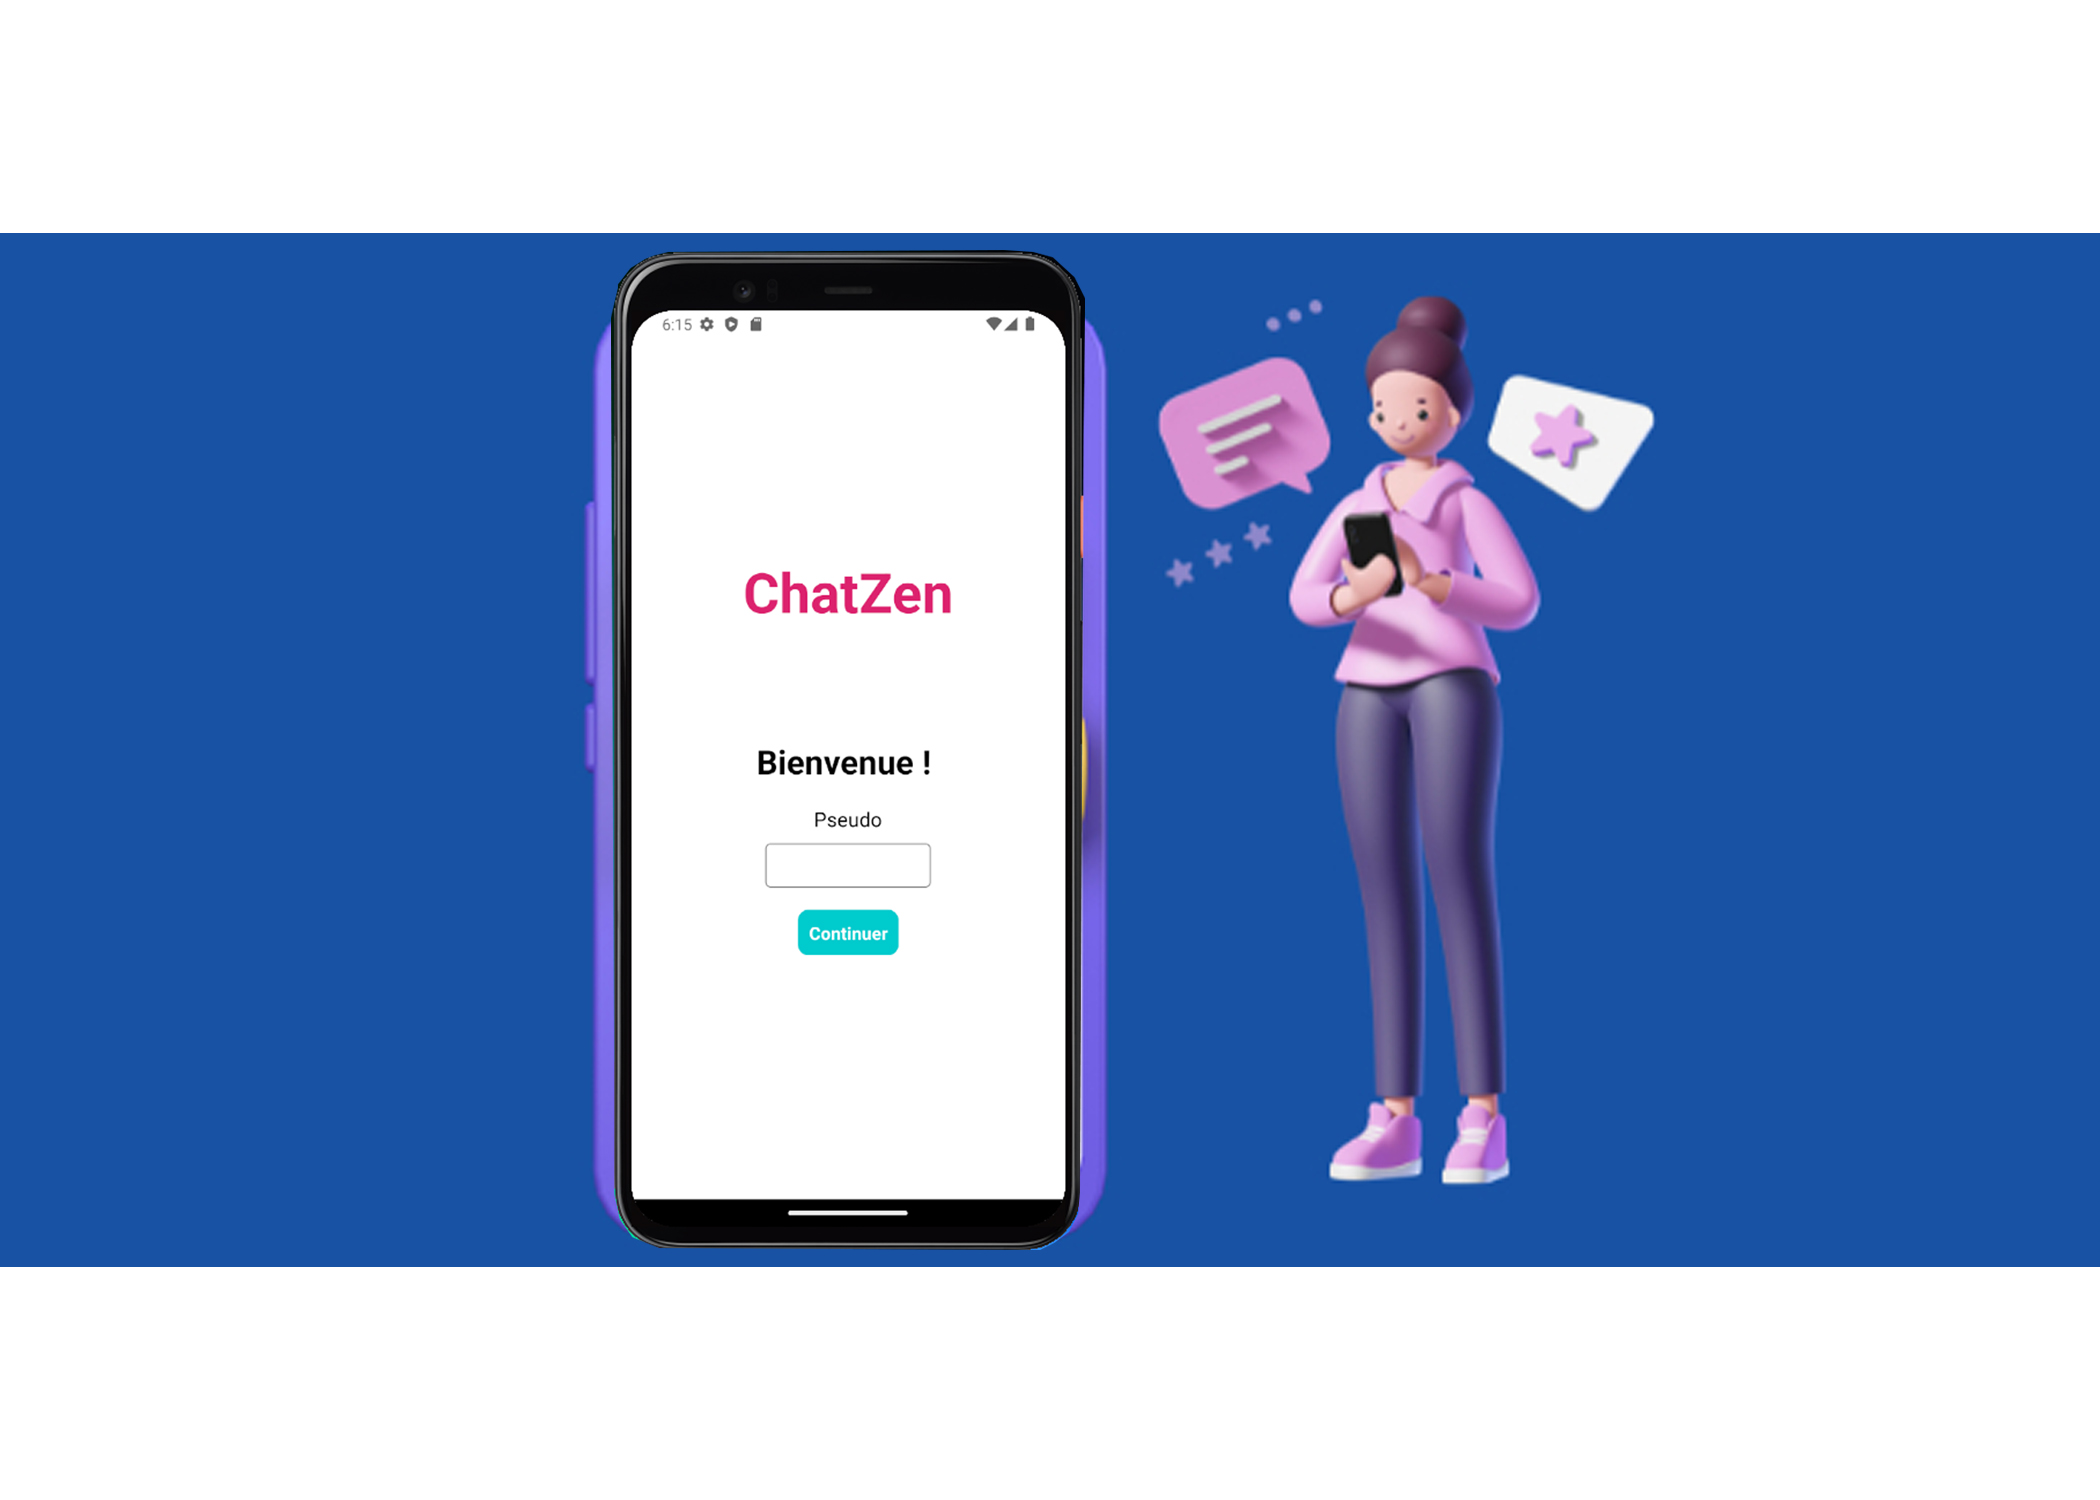
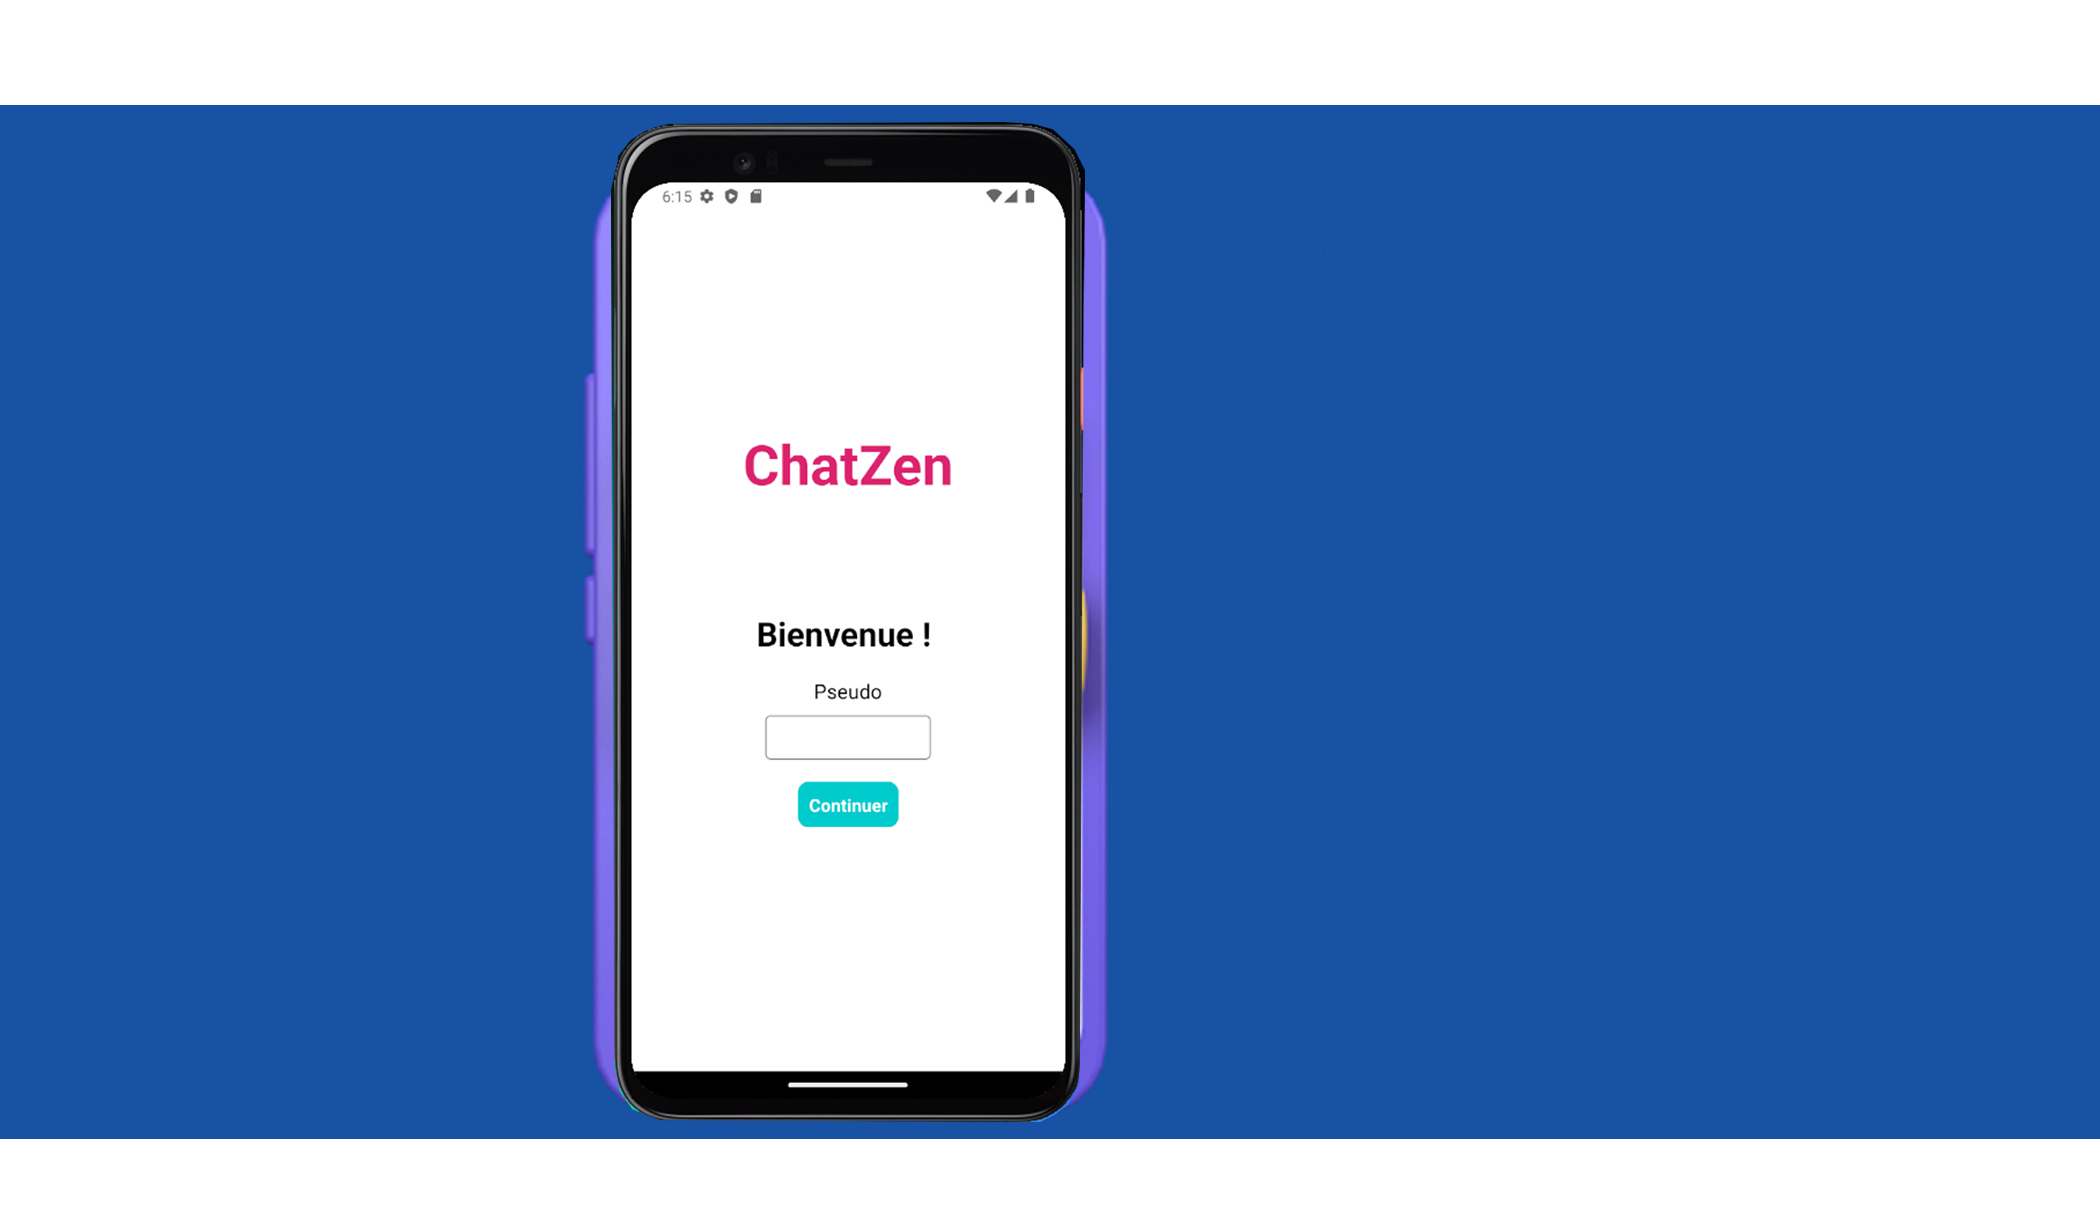
some updates

diff --git a/index.html b/index.html
@@ -435,7 +435,7 @@
             <div class="card">
               <header class="card-header">
                 <p class="card-header-title">
-                  <span>Fiche App</span>
+                  <span>Chat app</span>
                   <span class="is-pulled-right">
                     <span class="tag is-default">#mobile</span>
                     <span class="tag is-link">#reactnative</span>
@@ -445,7 +445,7 @@
               </header>
               <div class="card-content">
                 <figure class="image">
-                  <img src="images/chatzen.jpg" alt="pg2" width="52%" height="2%">
+                  <img src="images/chatzen.jpg" alt="pg2" width="30%" height="2%">
                 </figure>
                 <article >
                   <p>
